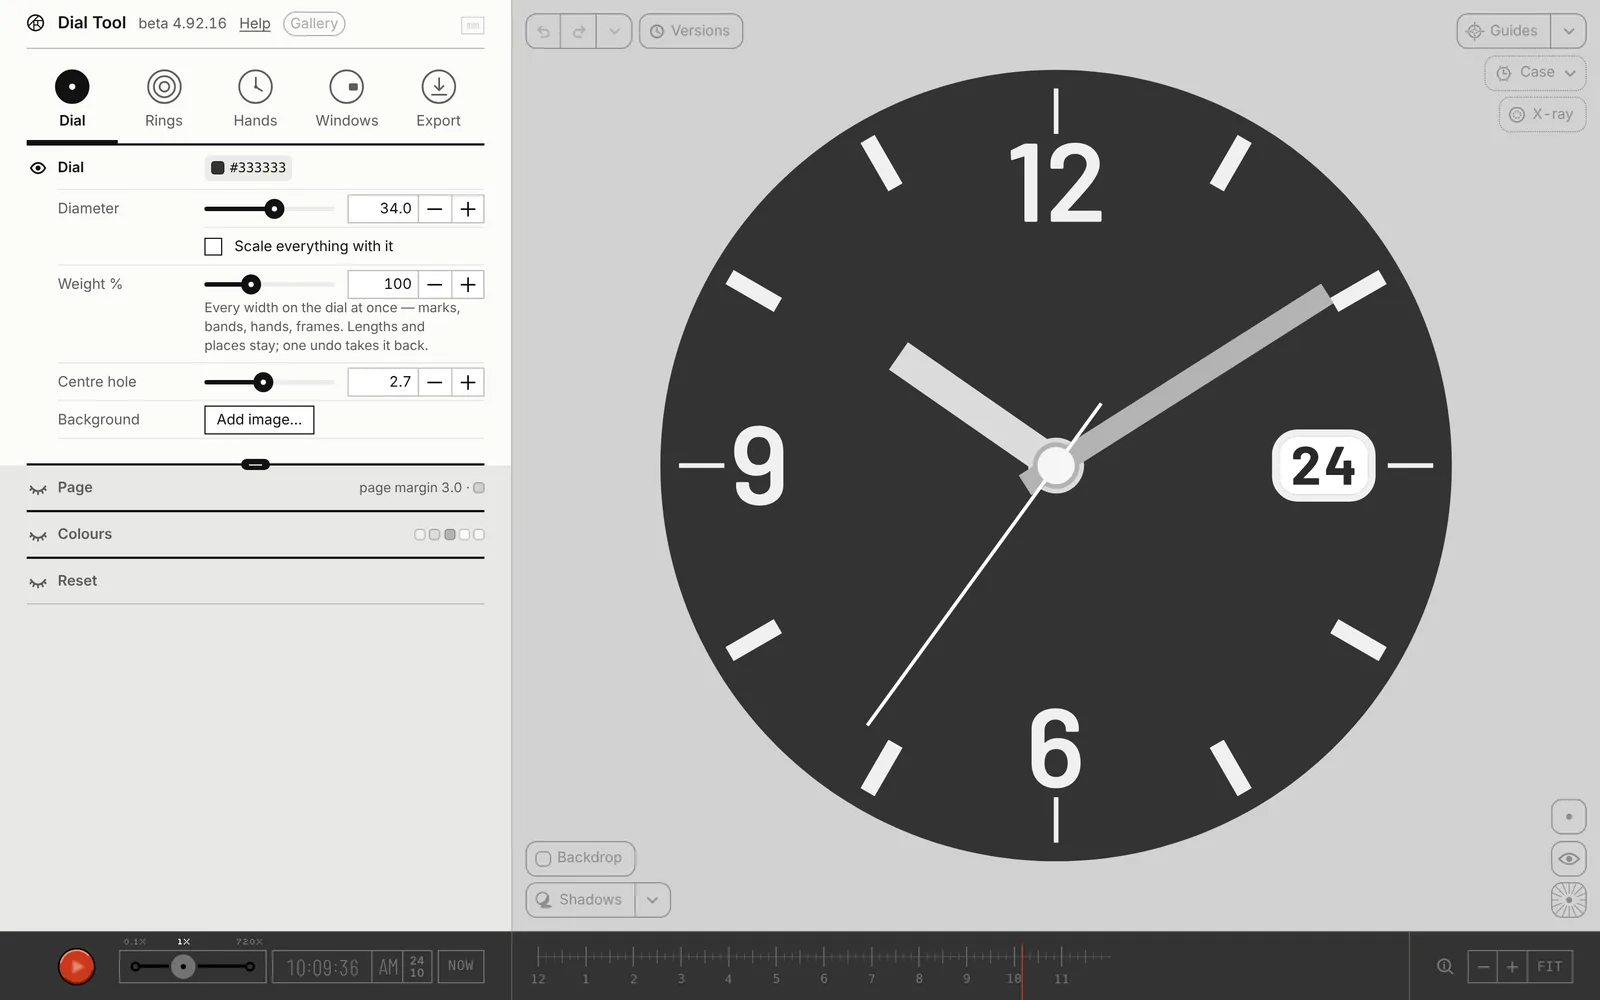
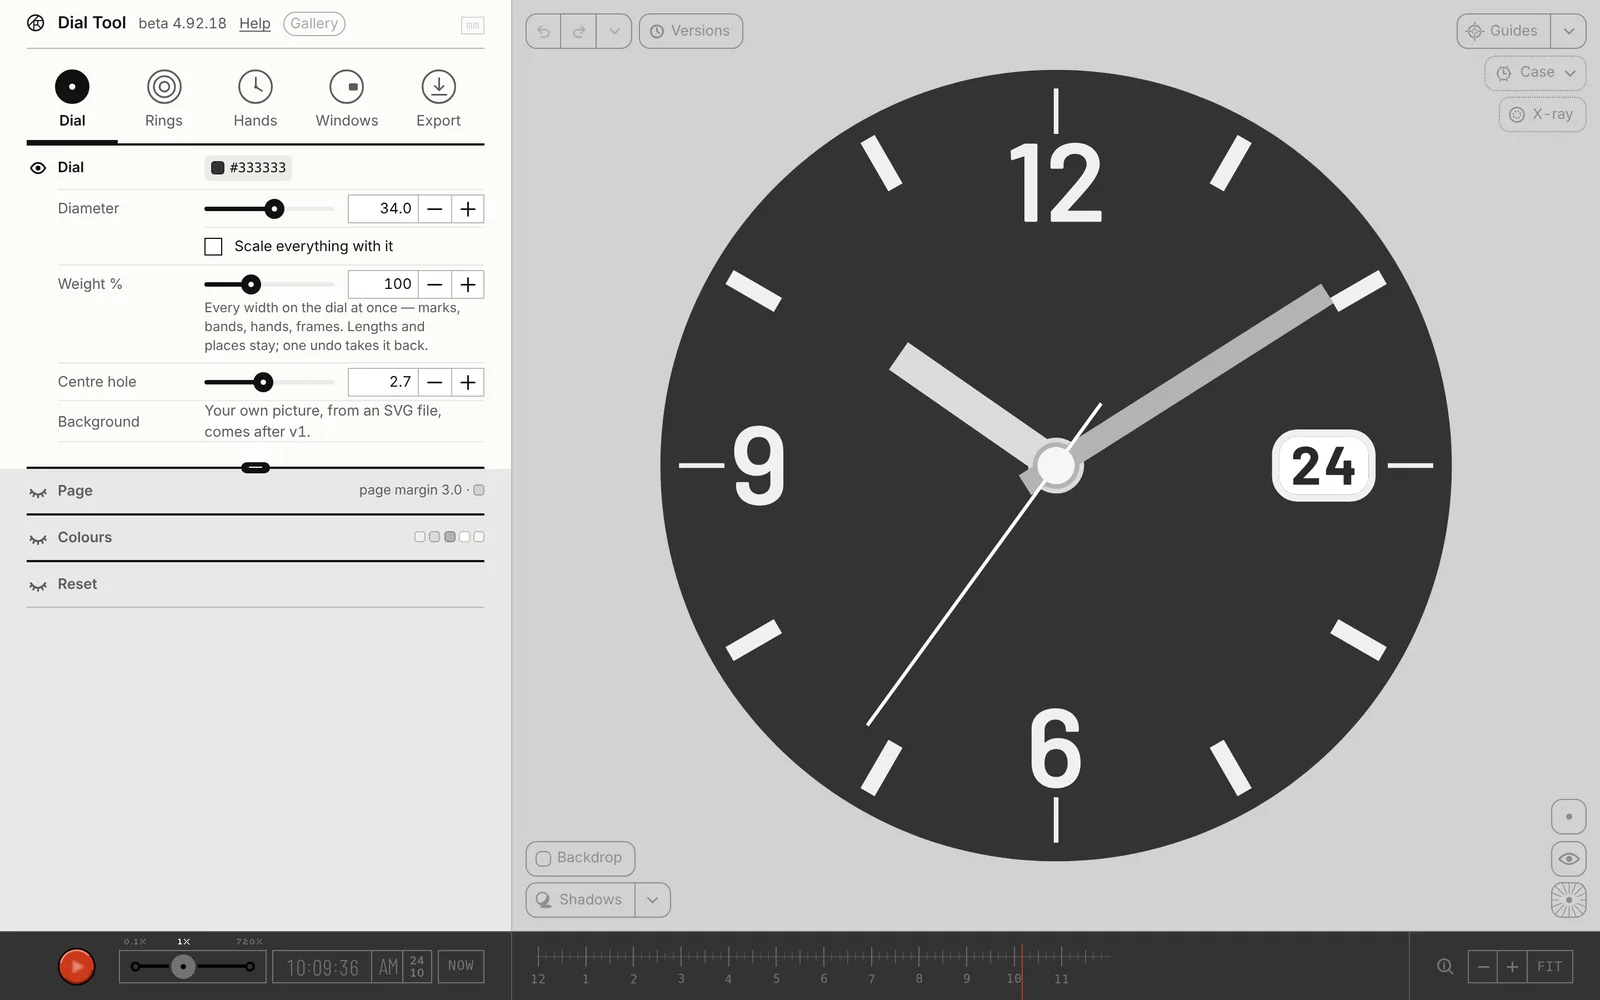
Help page from dev 43e875c

Changed region(s): [[0.0, 0.403, 0.3125, 0.589], [0.0312, 0.403, 0.0938, 0.434]]

diff --git a/help/index.html b/help/index.html
@@ -2,19 +2,19 @@
 <html lang="en">
 <head>
 <meta charset="utf-8">
-<meta name="viewport" content="width=device-width,initial-scale=1">
+<meta name="viewport" content="width=device-width,initial-scale=1,viewport-fit=cover">
 <meta name="color-scheme" content="light">
-<meta name="checked" content="beta 4.92.11">
+<meta name="checked" content="beta 4.92.18">
 <title>Dial Tool · Help</title>
 <meta name="description" content="Every pane and control of Dial Tool, in one sentence each.">
 <style>
-@font-face{font-family:Inter;font-weight:400;font-display:swap;src:url(fonts/Inter-Regular.woff2?v=9662ad4) format("woff2")}
-@font-face{font-family:Inter;font-weight:500;font-display:swap;src:url(fonts/Inter-Medium.woff2?v=9662ad4) format("woff2")}
-@font-face{font-family:Inter;font-weight:600 700;font-display:swap;src:url(fonts/Inter-SemiBold.woff2?v=9662ad4) format("woff2")}
+@font-face{font-family:Inter;font-weight:400;font-display:swap;src:url(fonts/Inter-Regular.woff2?v=43e875c) format("woff2")}
+@font-face{font-family:Inter;font-weight:500;font-display:swap;src:url(fonts/Inter-Medium.woff2?v=43e875c) format("woff2")}
+@font-face{font-family:Inter;font-weight:600 700;font-display:swap;src:url(fonts/Inter-SemiBold.woff2?v=43e875c) format("woff2")}
 :root{--bug:#c8331b;--map-w:211px;--map-h:132px;--map-frame:7px;--map-ring:5px;--paper:#f3f1ec;--ink:#1b1a18;--mute:#77736b;--line:#d8d4cb;--gut:16px}
 *{box-sizing:border-box}html{scroll-padding-top:96px;scroll-behavior:smooth}
 @media (prefers-reduced-motion:reduce){html{scroll-behavior:auto}}
-.topbar{position:sticky;top:0;z-index:10;background:var(--paper);border-bottom:1px solid var(--line)}
+.topbar{position:sticky;top:0;z-index:10;background:var(--paper);border-bottom:1px solid var(--line);padding-top:env(safe-area-inset-top,0px)}
 .top{display:grid;grid-template-columns:190px 1fr;gap:48px;align-items:baseline;max-width:1200px;margin:0 auto;padding:18px var(--gut)}
 .brand{display:flex;align-items:baseline;gap:10px;line-height:1;font-size:26px;font-weight:600;letter-spacing:-.01em;text-decoration:none;white-space:nowrap}
 .brand .ic{margin:0;align-self:center}.brand .ic svg{width:1em;height:1em}
@@ -33,7 +33,7 @@ nav a.on{color:var(--ink);font-weight:600}
 nav .eye{position:absolute;left:4px;width:18px;height:18px;color:var(--mute);opacity:0;transition:opacity .2s}
 nav .grp.on .eye{opacity:1}
 nav b{display:flex;align-items:center;margin:0 0 2px;color:var(--ink);font-weight:600}
-.intro p{margin:.5em 0 0;color:var(--mute);max-width:60ch}
+.intro p{margin:.24em 0 0;color:var(--mute);max-width:60ch}
 h2{clear:both;position:relative;margin:56px 0 4px;font-size:26px;font-weight:600;padding-bottom:8px;border-bottom:1px solid transparent}
 h2::after{content:"";position:absolute;left:0;right:0;bottom:-1px;height:1px;background:var(--ink);z-index:1}
 h3{margin:42px 0 9px;font-size:19px;font-weight:600}
@@ -105,7 +105,7 @@ table.two tbody th{width:9em;font-weight:500}table.two thead th:first-child{widt
 <body>
 <div class="topbar"><header class="top">
   <a class="brand" href="../" title="Open the tool"><i class="ic" data-ic="mark"><svg viewBox="0 0 16 16" width="16" height="16" aria-hidden="true" fill="none" stroke="currentColor" stroke-width="1.5" stroke-linecap="round" stroke-linejoin="round"><circle cx="8" cy="8" r="7" stroke-width="1.375"></circle><path d="M1.62 10.88L10.88 1.62M6.5 6H14.71M6.5 6V14.84M10 6V10H6.5M10 10L12.95 12.95" stroke-width="1"></path></svg></i>Dial Tool</a>
-  <div class="page"><span class="title">Help</span><span class="ver">beta 4.92.11</span><a class="bug" href="#report">Report a bug</a></div>
+  <div class="page"><span class="title">Help</span><span class="ver">beta 4.92.18</span><a class="bug" href="#report">Report a bug</a></div>
 </header></div>
 <div class="wrap">
 <nav aria-label="Contents">
@@ -131,7 +131,7 @@ table.two tbody th{width:9em;font-weight:500}table.two thead th:first-child{widt
 <h2 id="screen"><span class="map" data-map="screen" title="Where on the screen"><svg viewBox="0 0 160 100" aria-hidden="true"><rect width="160" height="100" class="backdrop"/><rect width="51.2" height="93.0" class="panel"/><rect y="14.4" width="51.2" height="31.6" class="pane"/><circle cx="7.3" cy="8.6" r="2.4" class="tab"/><circle cx="16.45" cy="8.6" r="2.4" class="tab"/><circle cx="25.6" cy="8.6" r="2.4" class="tab"/><circle cx="34.75" cy="8.6" r="2.4" class="tab"/><circle cx="43.9" cy="8.6" r="2.4" class="tab"/><rect y="93.0" width="160" height="7.0" class="bar"/><circle cx="105.6" cy="46.6" r="39.5" class="dial"/><g class="ticks"><path d="M105.6 14.1L105.6 9.6"/><path d="M121.9 18.5L124.1 14.6"/><path d="M133.7 30.4L137.6 28.1"/><path d="M138.1 46.6L142.6 46.6"/><path d="M133.7 62.9L137.6 65.1"/><path d="M121.8 74.7L124.1 78.6"/><path d="M105.6 79.1L105.6 83.6"/><path d="M89.3 74.7L87.1 78.6"/><path d="M77.5 62.8L73.6 65.1"/><path d="M73.1 46.6L68.6 46.6"/><path d="M77.5 30.3L73.6 28.1"/><path d="M89.4 18.5L87.1 14.6"/></g><path d="M105.6 46.6L89.6 36.6M105.6 46.6L129.6 32.6" class="hands"/><circle cx="105.6" cy="46.6" r="2.2" class="cap"/><rect x=".5" y=".5" width="159" height="99" rx="3" class="frame"/></svg></span>The screen</h2>
 <p class="lead">The window's eight parts, by number.</p>
 <figure class="shot">
-  <img src="img/screen.webp?v=9662ad4" width="1440" height="900" alt="The Dial Tool window: the panel with its tabs on the left, the dial in the preview on the right, buttons in the preview's corners, the time bar along the bottom.">
+  <img src="img/screen.webp?v=43e875c" width="1440" height="900" alt="The Dial Tool window: the panel with its tabs on the left, the dial in the preview on the right, buttons in the preview's corners, the time bar along the bottom.">
   <i style="left:23.5%;top:2.4%">①</i><i style="left:30.5%;top:9.5%">②</i><i style="left:80%;top:20%">③</i><i style="left:47.5%;top:3.1%">④</i>
   <i style="left:89.5%;top:3.1%">⑤</i><i style="left:41.5%;top:86%">⑥</i><i style="left:95%;top:89%">⑦</i><i style="left:33.5%;top:96.5%">⑧</i>
 </figure>
@@ -167,7 +167,7 @@ table.two tbody th{width:9em;font-weight:500}table.two thead th:first-child{widt
   <dt>Scale everything with it</dt><dd>On: rings, hands and windows grow and shrink with the diameter.</dd>
   <dt>Weight %</dt><dd>Every width on the dial at once: marks, bands, hands, frames. Lengths and places stay; one undo takes it back.</dd>
   <dt>Centre hole</dt><dd>The hole for the hand pipes, as Ø; 0 for none.</dd>
-  <dt>Background</dt><dd>Add image… keeps a place for a picture under the print; not built yet.</dd>
+  <dt>Background</dt><dd>A note: your own picture, from an SVG file, comes after v1.</dd>
 </dl>
 <h3>Page · Colours · Reset</h3>
 <dl>
@@ -198,7 +198,7 @@ table.two tbody th{width:9em;font-weight:500}table.two thead th:first-child{widt
   <dt>12 o’clock · first position</dt><dd>A markers ring's first marker: Style, Scale ×, Gap.<span class="row"><span><i class="ic" data-ic="twelve-same"><svg viewBox="0 0 38 27" width="38" height="27" aria-hidden="true" fill="none" stroke="currentColor" stroke-width="1.5" stroke-linecap="round" stroke-linejoin="round"><rect x="16.5" y="4" width="5" height="19" fill="currentColor" stroke="none"></rect></svg></i>Same</span><span><i class="ic" data-ic="twelve-double"><svg viewBox="0 0 38 27" width="38" height="27" aria-hidden="true" fill="none" stroke="currentColor" stroke-width="1.5" stroke-linecap="round" stroke-linejoin="round"><rect x="11.5" y="4" width="5" height="19" fill="currentColor" stroke="none"></rect><rect x="21.5" y="4" width="5" height="19" fill="currentColor" stroke="none"></rect></svg></i>Double</span><span><i class="ic" data-ic="twelve-triangle"><svg viewBox="0 0 38 27" width="38" height="27" aria-hidden="true" fill="none" stroke="currentColor" stroke-width="1.5" stroke-linecap="round" stroke-linejoin="round"><path d="M11 4H27L19 23Z" fill="currentColor" stroke="none"></path></svg></i>Triangle</span><span><i class="ic" data-ic="twelve-none"><svg viewBox="0 0 38 27" width="38" height="27" aria-hidden="true" fill="none" stroke="currentColor" stroke-width="1.5" stroke-linecap="round" stroke-linejoin="round"><circle cx="17" cy="4.5" r="0.625" fill="currentColor" stroke="none"></circle><circle cx="17" cy="22.5" r="0.625" fill="currentColor" stroke="none"></circle><circle cx="19" cy="4.5" r="0.625" fill="currentColor" stroke="none"></circle><circle cx="19" cy="22.5" r="0.625" fill="currentColor" stroke="none"></circle><circle cx="21" cy="4.5" r="0.625" fill="currentColor" stroke="none"></circle><circle cx="21" cy="22.5" r="0.625" fill="currentColor" stroke="none"></circle><circle cx="17" cy="6.5" r="0.625" fill="currentColor" stroke="none"></circle><circle cx="21" cy="6.5" r="0.625" fill="currentColor" stroke="none"></circle><circle cx="17" cy="8.5" r="0.625" fill="currentColor" stroke="none"></circle><circle cx="21" cy="8.5" r="0.625" fill="currentColor" stroke="none"></circle><circle cx="17" cy="10.5" r="0.625" fill="currentColor" stroke="none"></circle><circle cx="21" cy="10.5" r="0.625" fill="currentColor" stroke="none"></circle><circle cx="17" cy="12.5" r="0.625" fill="currentColor" stroke="none"></circle><circle cx="21" cy="12.5" r="0.625" fill="currentColor" stroke="none"></circle><circle cx="17" cy="14.5" r="0.625" fill="currentColor" stroke="none"></circle><circle cx="21" cy="14.5" r="0.625" fill="currentColor" stroke="none"></circle><circle cx="17" cy="16.5" r="0.625" fill="currentColor" stroke="none"></circle><circle cx="21" cy="16.5" r="0.625" fill="currentColor" stroke="none"></circle><circle cx="17" cy="18.5" r="0.625" fill="currentColor" stroke="none"></circle><circle cx="21" cy="18.5" r="0.625" fill="currentColor" stroke="none"></circle><circle cx="17" cy="20.5" r="0.625" fill="currentColor" stroke="none"></circle><circle cx="21" cy="20.5" r="0.625" fill="currentColor" stroke="none"></circle></svg></i>None</span></span></dd>
   <dt>Numerals</dt><dd>Labels on its heading line: Arabic, Roman · IIII, Roman · IV, Eastern Arabic, Chinese, Words, Custom or Numbers (First number, Step, Digits, Start again after); then Placement:<span class="row"><span><i class="ic" data-ic="place-upright"><svg viewBox="0 0 38 27" width="38" height="27" aria-hidden="true" fill="none" stroke="currentColor" stroke-width="1.5" stroke-linecap="round" stroke-linejoin="round"><circle cx="19" cy="13.5" r="11.5" stroke-width="1.25" opacity="0.45"></circle><path d="M19 9L19 5.5M25.495 12.75L25.495 9.25M25.495 20.25L25.495 16.75M19 24L19 20.5M12.505 20.25L12.505 16.75M12.505 12.75L12.505 9.25" stroke-width="1.25"></path><path d="M19 3L20.75 5.75L17.25 5.75ZM25.495 6.75L27.245 9.5L23.745 9.5ZM25.495 14.25L27.245 17L23.745 17ZM19 18L20.75 20.75L17.25 20.75ZM12.505 14.25L14.255 17L10.755 17ZM12.505 6.75L14.255 9.5L10.755 9.5Z" fill="currentColor" stroke="none"></path></svg></i>Upright</span><span><i class="ic" data-ic="place-radial"><svg viewBox="0 0 38 27" width="38" height="27" aria-hidden="true" fill="none" stroke="currentColor" stroke-width="1.5" stroke-linecap="round" stroke-linejoin="round"><circle cx="19" cy="13.5" r="11.5" stroke-width="1.25" opacity="0.45"></circle><path d="M19 9L19 5.5M22.897 11.25L25.928 9.5M22.897 15.75L25.928 17.5M19 18L19 21.5M15.103 15.75L12.072 17.5M15.103 11.25L12.072 9.5" stroke-width="1.25"></path><path d="M19 3L20.75 5.75L17.25 5.75ZM28.093 8.25L26.587 11.141L24.837 8.109ZM28.093 18.75L24.837 18.891L26.587 15.859ZM19 24L17.25 21.25L20.75 21.25ZM9.907 18.75L11.413 15.859L13.163 18.891ZM9.907 8.25L13.163 8.109L11.413 11.141Z" fill="currentColor" stroke="none"></path></svg></i>Radial</span><span><i class="ic" data-ic="place-radial-auto-flip"><svg viewBox="0 0 38 27" width="38" height="27" aria-hidden="true" fill="none" stroke="currentColor" stroke-width="1.5" stroke-linecap="round" stroke-linejoin="round"><circle cx="19" cy="13.5" r="11.5" stroke-width="1.25" opacity="0.45"></circle><path d="M19 9L19 5.5M22.897 11.25L25.928 9.5M28.093 18.75L25.062 17M19 24L19 20.5M9.907 18.75L12.938 17M15.103 11.25L12.072 9.5" stroke-width="1.25"></path><path d="M19 3L20.75 5.75L17.25 5.75ZM28.093 8.25L26.587 11.141L24.837 8.109ZM22.897 15.75L26.154 15.609L24.404 18.641ZM19 18L20.75 20.75L17.25 20.75ZM15.103 15.75L13.596 18.641L11.846 15.609ZM9.907 8.25L13.163 8.109L11.413 11.141Z" fill="currentColor" stroke="none"></path></svg></i>Radial, auto-flip</span><span><i class="ic" data-ic="place-on-path"><svg viewBox="0 0 38 27" width="38" height="27" aria-hidden="true" fill="none" stroke="currentColor" stroke-width="1.5" stroke-linecap="round" stroke-linejoin="round"><circle cx="19" cy="13.5" r="11.5" stroke-width="1.25" opacity="0.45"></circle><path d="M16 6L19.5 6M23.995 7.152L25.745 10.183M26.995 14.652L25.245 17.683M22 21L18.5 21M14.005 19.848L12.255 16.817M11.005 12.348L12.755 9.317" stroke-width="1.25"></path><path d="M22 6L19.25 7.75L19.25 4.25ZM26.995 12.348L24.105 10.842L27.136 9.092ZM23.995 19.848L23.855 16.592L26.886 18.342ZM16 21L18.75 19.25L18.75 22.75ZM11.005 14.652L13.895 16.158L10.864 17.908ZM14.005 7.152L14.145 10.408L11.114 8.658Z" fill="currentColor" stroke="none"></path></svg></i>On path</span></span></dd>
   <dt>Band</dt><dd>Fill % of step: how much of each step the band covers.</dd>
-  <dt>Edit one numeral · Edit one mark</dt><dd>One numeral or mark of its own: Radius ±, Angle ± °, Rotate °, Scale ×; a mark also its Shape.</dd>
+  <dt>Edit one numeral · Edit one mark</dt><dd>One numeral or mark of its own: Radius ±, Angle ± °, Rotate °, Scale ×; a mark also its Shape; a numeral also its Font and Colour (As the ring takes the font back).</dd>
 </dl>
 <p class="watch">Markers and numerals leave a window's position empty; other marks are cut back from the window's clear zone.</p>
 
@@ -223,7 +223,7 @@ table.two tbody th{width:9em;font-weight:500}table.two thead th:first-child{widt
 <h3>Window</h3>
 <dl>
   <dt>Window at</dt><dd>3 · 6 · 9 · 12 on the heading line, or ··· for any place or time, such as 2:15.</dd>
-  <dt>Complication</dt><dd>Big date for two discs, the tens and the units.<span class="row"><span><i class="ic" data-ic="window-date"><svg viewBox="0 0 30 21" width="30" height="21" aria-hidden="true" fill="none" stroke="currentColor" stroke-width="1.5" stroke-linecap="round" stroke-linejoin="round"><path d="M6.75 2.25H23.25M24.75 3.75V17.25M23.25 18.75H6.75M5.25 17.25V3.75"></path><path d="M23.25 2.25A1.5 1.5 0 0 1 24.75 3.75M24.75 17.25A1.5 1.5 0 0 1 23.25 18.75M6.75 18.75A1.5 1.5 0 0 1 5.25 17.25M5.25 3.75A1.5 1.5 0 0 1 6.75 2.25" stroke-width="1.625"></path><path d="M12.75 8L15.25 6V15" stroke-width="1.625"></path></svg></i>Date</span><span><i class="ic" data-ic="window-day"><svg viewBox="0 0 30 21" width="30" height="21" aria-hidden="true" fill="none" stroke="currentColor" stroke-width="1.5" stroke-linecap="round" stroke-linejoin="round"><path d="M3.75 4.25H26.25M27.75 5.75V15.25M26.25 16.75H3.75M2.25 15.25V5.75"></path><path d="M26.25 4.25A1.5 1.5 0 0 1 27.75 5.75M27.75 15.25A1.5 1.5 0 0 1 26.25 16.75M3.75 16.75A1.5 1.5 0 0 1 2.25 15.25M2.25 5.75A1.5 1.5 0 0 1 3.75 4.25" stroke-width="1.625"></path><path d="M10.75 14V7L15 12L19.25 7V14" stroke-width="1.5625"></path></svg></i>Day</span><span><i class="ic" data-ic="window-am-pm"><svg viewBox="0 0 30 21" width="30" height="21" aria-hidden="true" fill="none" stroke="currentColor" stroke-width="1.5" stroke-linecap="round" stroke-linejoin="round"><path d="M5.25 3.75H24.75M26.25 5.25V15.75M24.75 17.25H5.25M3.75 15.75V5.25"></path><path d="M24.75 3.75A1.5 1.5 0 0 1 26.25 5.25M26.25 15.75A1.5 1.5 0 0 1 24.75 17.25M5.25 17.25A1.5 1.5 0 0 1 3.75 15.75M3.75 5.25A1.5 1.5 0 0 1 5.25 3.75" stroke-width="1.625"></path><path d="M15 3.75H5.25A1.5 1.5 0 0 0 3.75 5.25V15.75A1.5 1.5 0 0 0 5.25 17.25H15Z" fill="currentColor" stroke="none"></path></svg></i>am · pm</span><span><i class="ic" data-ic="window-moon-phase"><svg viewBox="0 0 30 21" width="30" height="21" aria-hidden="true" fill="none" stroke="currentColor" stroke-width="1.5" stroke-linecap="round" stroke-linejoin="round"><path d="M15 1.25A9.25 9.25 0 0 0 15 19.75A11.75 11.75 0 0 1 15 1.25Z" fill="currentColor" stroke="none"></path><circle cx="15" cy="10.5" r="9.25"></circle></svg></i>Moon</span></span><img src="img/windows.webp?v=9662ad4" width="300" height="300" alt="A dial with four windows: the date at 12, the moon at 3, the day at 6, am · pm at 9."></dd>
+  <dt>Complication</dt><dd>Big date for two discs, the tens and the units.<span class="row"><span><i class="ic" data-ic="window-date"><svg viewBox="0 0 30 21" width="30" height="21" aria-hidden="true" fill="none" stroke="currentColor" stroke-width="1.5" stroke-linecap="round" stroke-linejoin="round"><path d="M6.75 2.25H23.25M24.75 3.75V17.25M23.25 18.75H6.75M5.25 17.25V3.75"></path><path d="M23.25 2.25A1.5 1.5 0 0 1 24.75 3.75M24.75 17.25A1.5 1.5 0 0 1 23.25 18.75M6.75 18.75A1.5 1.5 0 0 1 5.25 17.25M5.25 3.75A1.5 1.5 0 0 1 6.75 2.25" stroke-width="1.625"></path><path d="M12.75 8L15.25 6V15" stroke-width="1.625"></path></svg></i>Date</span><span><i class="ic" data-ic="window-day"><svg viewBox="0 0 30 21" width="30" height="21" aria-hidden="true" fill="none" stroke="currentColor" stroke-width="1.5" stroke-linecap="round" stroke-linejoin="round"><path d="M3.75 4.25H26.25M27.75 5.75V15.25M26.25 16.75H3.75M2.25 15.25V5.75"></path><path d="M26.25 4.25A1.5 1.5 0 0 1 27.75 5.75M27.75 15.25A1.5 1.5 0 0 1 26.25 16.75M3.75 16.75A1.5 1.5 0 0 1 2.25 15.25M2.25 5.75A1.5 1.5 0 0 1 3.75 4.25" stroke-width="1.625"></path><path d="M10.75 14V7L15 12L19.25 7V14" stroke-width="1.5625"></path></svg></i>Day</span><span><i class="ic" data-ic="window-am-pm"><svg viewBox="0 0 30 21" width="30" height="21" aria-hidden="true" fill="none" stroke="currentColor" stroke-width="1.5" stroke-linecap="round" stroke-linejoin="round"><path d="M5.25 3.75H24.75M26.25 5.25V15.75M24.75 17.25H5.25M3.75 15.75V5.25"></path><path d="M24.75 3.75A1.5 1.5 0 0 1 26.25 5.25M26.25 15.75A1.5 1.5 0 0 1 24.75 17.25M5.25 17.25A1.5 1.5 0 0 1 3.75 15.75M3.75 5.25A1.5 1.5 0 0 1 5.25 3.75" stroke-width="1.625"></path><path d="M15 3.75H5.25A1.5 1.5 0 0 0 3.75 5.25V15.75A1.5 1.5 0 0 0 5.25 17.25H15Z" fill="currentColor" stroke="none"></path></svg></i>am · pm</span><span><i class="ic" data-ic="window-moon-phase"><svg viewBox="0 0 30 21" width="30" height="21" aria-hidden="true" fill="none" stroke="currentColor" stroke-width="1.5" stroke-linecap="round" stroke-linejoin="round"><path d="M15 1.25A9.25 9.25 0 0 0 15 19.75A11.75 11.75 0 0 1 15 1.25Z" fill="currentColor" stroke="none"></path><circle cx="15" cy="10.5" r="9.25"></circle></svg></i>Moon</span></span><img src="img/windows.webp?v=43e875c" width="300" height="300" alt="A dial with four windows: the date at 12, the moon at 3, the day at 6, am · pm at 9."></dd>
   <dt>Moon</dt><dd>Picture: Arch, Phase or Line; Moon age, days, when it doesn't follow the date (0 new, 14.8 full).</dd>
 </dl>
 <h3>Shape</h3>
@@ -252,7 +252,7 @@ table.two tbody th{width:9em;font-weight:500}table.two thead th:first-child{widt
   <dt>Inks · sheets</dt><dd>A mask per ink; a print sheet with Paper, Copies, Room between and a cut line round each; a spec sheet.</dd>
   <dt>A set of files</dt><dd>Tick the files you want; Export ticked writes them all.</dd>
   <dt>Moving picture</dt><dd>The dial running, as MP4 or GIF: Seconds, fps, Size px.</dd>
-  <dt>Share dial as link</dt><dd>Copy link: a link that opens this dial anywhere. It holds only what you changed and may stop opening when the tool changes; to keep a dial, save a settings file.</dd>
+  <dt>Share dial as link</dt><dd>Copy link: a link that opens this dial anywhere; once it opens, the address bar shows the site alone, and a reload keeps the dial. It holds only what you changed and may stop opening when the tool changes; to keep a dial, save a settings file.</dd>
   <dt>Settings file</dt><dd>Save… · Load…: every value, to keep a dial for good.</dd>
   <dt>Log · Gallery</dt><dd>What each export did; dials to open and take apart.</dd>
 </dl>
@@ -279,7 +279,7 @@ table.two tbody th{width:9em;font-weight:500}table.two thead th:first-child{widt
   <dt>Watch</dt><dd>View, Case, Metal, Case colour; Insert and bracelet for the diver; Strap: leather colour, or NATO with Pattern stripes or one colour.</dd>
   <dt>Light</dt><dd>Style and Lighting; Sun From and Height, or move the sun on the drawing; Shadows: Darkness %, Soft shadows; Flare and Glass reflection, each with its sizes, while Effects (blurs, flare, shine, outline) is on.</dd>
   <dt>Backdrop</dt><dd>Plain colours, presets and gradients.</dd>
-  <dt>At the panel's foot</dt><dd>Shadows, Blurs, Flare, Bevels as switches, and All for the four.</dd>
+  <dt>At the panel's foot</dt><dd>Shadows, Blurs, Gradients, Flare, Bevels as switches, and All for the five.</dd>
   <dt>Export</dt><dd>The watch as PNG (Pixels) or PDF at the drawing's real size.</dd>
 </dl>
 
@@ -370,7 +370,7 @@ table.two tbody th{width:9em;font-weight:500}table.two thead th:first-child{widt
   <p id="report-note" role="status"></p>
 </form>
 
-<footer>Dial Tool · beta 4.92.11 · help written 24 Oct 2026 · <a href="../">open the tool</a></footer>
+<footer>Dial Tool · beta 4.92.18 · help written 24 Oct 2026 · <a href="../">open the tool</a></footer>
 </main>
 </div>
 <div class="box" id="box" role="dialog" aria-label="Where on the screen"><figure><img alt=""><figcaption></figcaption></figure></div>
